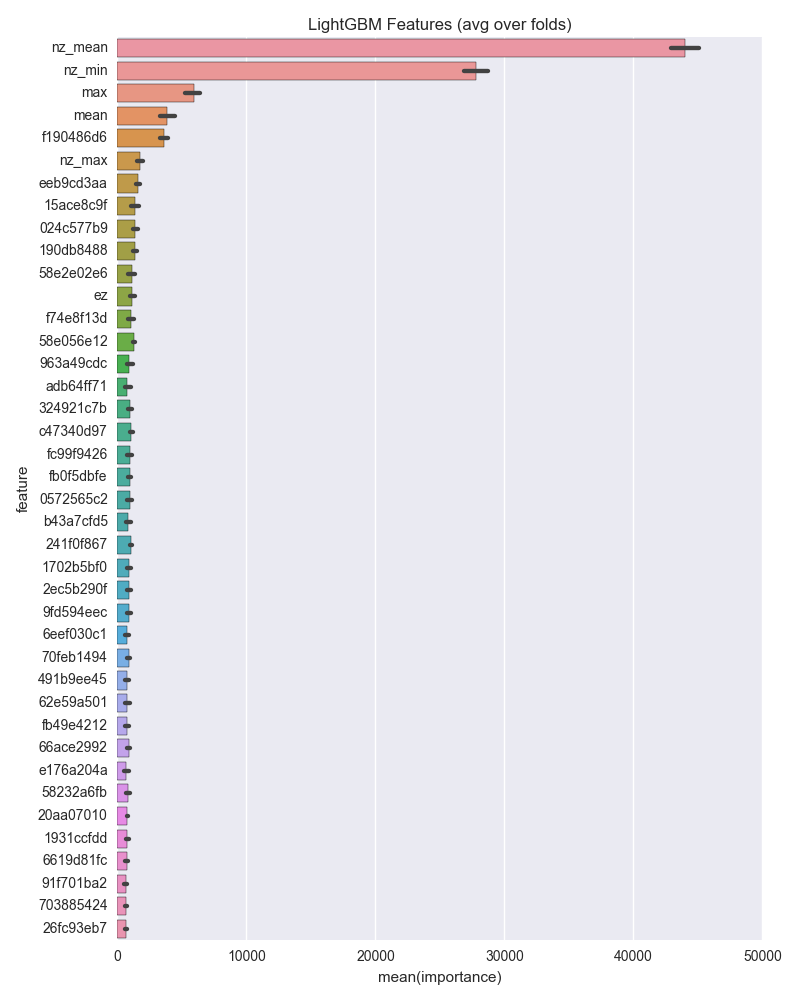
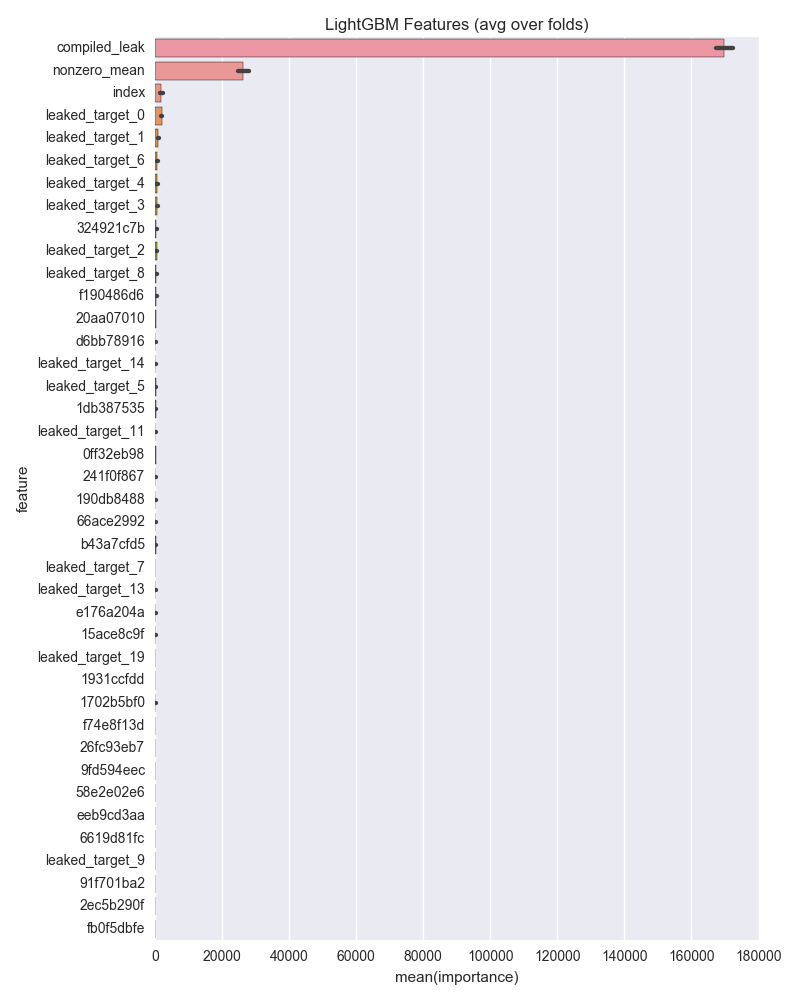
LB#3

diff --git a/LightGBM_with_Leak.py b/LightGBM_with_Leak.py
@@ -21,14 +21,6 @@ def timer(title):
     yield
     print("{} - done in {:.0f}s".format(title, time.time() - t0))
 
-def getLeakCol(data):
-    cols = [c for c in data.columns if c not in ['ID', 'target', 'index']]
-    for c in cols:
-        leak1 = np.sum((data[c]==data['target']).astype(int))
-        leak2 = np.sum((((data[c] - data['target']) / data['target']) < 0.05).astype(int))
-        if leak1 > 30 and leak2 > 3500:
-            yield c
-
 def display_importances(feature_importance_df_, outputpath, csv_outputpath):
     cols = feature_importance_df_[["feature", "importance"]].groupby("feature").mean().sort_values(by="importance", ascending=False)[:40].index
     best_features = feature_importance_df_.loc[feature_importance_df_.feature.isin(cols)]
@@ -45,18 +37,16 @@ def display_importances(feature_importance_df_, outputpath, csv_outputpath):
 
 def getNewDF(num_rows = None):
     # load csv files
-    train = pd.read_csv('train.csv', nrows = num_rows)
-    test = pd.read_csv('test.csv', nrows = num_rows)
-    print("Train samples: {}, test samples: {}".format(len(train), len(test)))
+    df = pd.read_csv('train_leak.csv', nrows = num_rows, index_col=0)
+    test_df = pd.read_csv('test_leak.csv', nrows = num_rows, index_col=0)
+    test_df['target'] = np.nan
+    feats = [f for f in df.columns if f not in ['ID', 'target']]
 
-    # get leak cols
-    leak_col = list(getLeakCol(train))
-    print("Number of Leak Cols:", len(leak_col))
+    print("Train samples: {}, test samples: {}".format(len(df), len(test_df)))
 
-    # get new train & test data
-    train = train[leak_col +  ['ID', 'target']]
-    test = test[leak_col +  ['ID']]
+    df = df.append(test_df).reset_index()
 
+    """
     # add new features1 # https://www.kaggle.com/johnfarrell/baseline-with-lag-select-fake-rows-dropped
     train["nz_mean"] = train[leak_col].apply(lambda x: x[x!=0].mean(), axis=1)
     train["nz_max"] = train[leak_col].apply(lambda x: x[x!=0].max(), axis=1)
@@ -79,12 +69,14 @@ def getNewDF(num_rows = None):
         train['index'+str(i)] = ((train.index + 2) % i == 0).astype(int)
         test['index'+str(i)] = ((test.index + 2) % i == 0).astype(int)
 
+    # replace zero value as nan
+    train = train.replace(0, np.nan)
+    test = test.replace(0, np.nan)
+
     # concat train & test
     df = pd.concat((train, test), axis=0, ignore_index=True)
-    del train, test
-
-    # replace zero value as nan
-    df = df.replace(0, np.nan)
+    """
+    del test_df
 
     return df
 
@@ -108,7 +100,7 @@ def kfold_lightgbm(df, num_folds, stratified = False, debug= False):
     oof_preds = np.zeros(train_df.shape[0])
     sub_preds = np.zeros(test_df.shape[0])
     feature_importance_df = pd.DataFrame()
-    feats = [f for f in train_df.columns if f not in ['ID', 'target', 'index']]
+    feats = [f for f in train_df.columns if f not in ['ID', 'target']]
 
     # k-fold cross validation
     for n_fold, (train_idx, valid_idx) in enumerate(folds.split(train_df[feats], train_df['target'])):
@@ -160,7 +152,7 @@ def kfold_lightgbm(df, num_folds, stratified = False, debug= False):
         fold_importance_df["importance"] = clf.feature_importance(importance_type='gain', iteration=clf.best_iteration)
         fold_importance_df["fold"] = n_fold + 1
         feature_importance_df = pd.concat([feature_importance_df, fold_importance_df], axis=0)
-        print('Fold %2d RMSE : %.6f' % (n_fold + 1, np.sqrt(mean_squared_error(np.expm1(valid_y), oof_preds[valid_idx]))))
+        print('Fold %2d RMSE : %.6f' % (n_fold + 1, np.sqrt(mean_squared_error(valid_y, np.log1p(oof_preds[valid_idx])))))
         del clf, train_x, train_y, valid_x, valid_y
         gc.collect()
 

diff --git a/feature_extraction.py b/feature_extraction.py
@@ -53,16 +53,13 @@ def _get_leak(df, cols, extra_feats, lag=0):
         f2 += ef[(lag+2):]
 
     d1 = df[f1].apply(tuple, axis=1).to_frame().rename(columns={0: 'key'})
-    d1.to_csv('extra_d1.csv')
     d2 = df[f2].apply(tuple, axis=1).to_frame().rename(columns={0: 'key'})
 
     d2['pred'] = df[cols[lag]]
     d3 = d2[~d2.duplicated(['key'], keep=False)]
     d4 = d1[~d1.duplicated(['key'], keep=False)]
     d5 = d4.merge(d3, how='inner', on='key')
-
     d6 = d1.merge(d5, how='left', on='key')
-    d6.to_csv('extra_d6.csv')
 
     return d1.merge(d5, how='left', on='key').pred.fillna(0)
 
@@ -81,7 +78,7 @@ def compiled_leak_result(cols, df, transact_cols, l, y):
         c = "leaked_target_"+str(i)
         print('Processing lag', i)
 
-        df_leak[c] = _get_leak(df, cols,l, i)
+        df_leak[c] = _get_leak(df, cols, l, i)
         leaky_cols.append(c)
 
         df_leak = df_leak.set_index("ID")[leaky_cols+["compiled_leak", "nonzero_mean"]]
@@ -128,9 +125,8 @@ def main():
             '58232a6fb', '1702b5bf0', '324921c7b', '62e59a501', '2ec5b290f', '241f0f867',
             'fb49e4212', '66ace2992', 'f74e8f13d', '5c6487af1', '963a49cdc', '26fc93eb7',
             '1931ccfdd', '703885424', '70feb1494', '491b9ee45', '23310aa6f', 'e176a204a',
-            '6619d81fc', '1db387535',
-            'fc99f9426', '91f701ba2', '0572565c2', '190db8488', 'adb64ff71', 'c47340d97', 'c5a231d81', '0ff32eb98'
-           ]
+            '6619d81fc', '1db387535', 'fc99f9426', '91f701ba2', '0572565c2', '190db8488',
+            'adb64ff71', 'c47340d97', 'c5a231d81', '0ff32eb98']
 
     pattern_1964666 = pd.read_csv('pattern_1964666.66.csv')
     pattern_1166666 = pd.read_csv('pattern_1166666.66.csv')
@@ -173,20 +169,19 @@ def main():
     test_leak, test_result = compiled_leak_result(cols, test, transact_cols, l, valY)
     test_result = pd.DataFrame.from_dict(test_result, orient='columns')
 
+    # get submission data
+    test_leak = rewrite_compiled_leak(test_leak, best_lag)
+    test_leak.loc[test_leak["compiled_leak"]==0, "compiled_leak"] = test_leak.loc[test_leak["compiled_leak"]==0, "nonzero_mean"]
+
     test_result.to_csv('test_leaky_stat.csv', index=False)
     test_leak.to_csv('test_leak.csv')
 
-    # get submission data
-    test_leak = rewrite_compiled_leak(test_leak, best_lag)
-
     test_res = test_leak[leaky_cols+['compiled_leak']].replace(0.0, np.nan)
-
-    test_leak.loc[test_leak["compiled_leak"]==0, "compiled_leak"] = test_leak.loc[test_leak["compiled_leak"]==0, "nonzero_mean"]
 
     # submission
     sub = test[["ID"]]
     sub["target"] = test_leak["compiled_leak"]
-    sub.to_csv("baseline_sub_lag_{best_lag}.csv", index=False)
+    sub.to_csv("submission_baseline.csv", index=False)
 
     print(sub)
 
